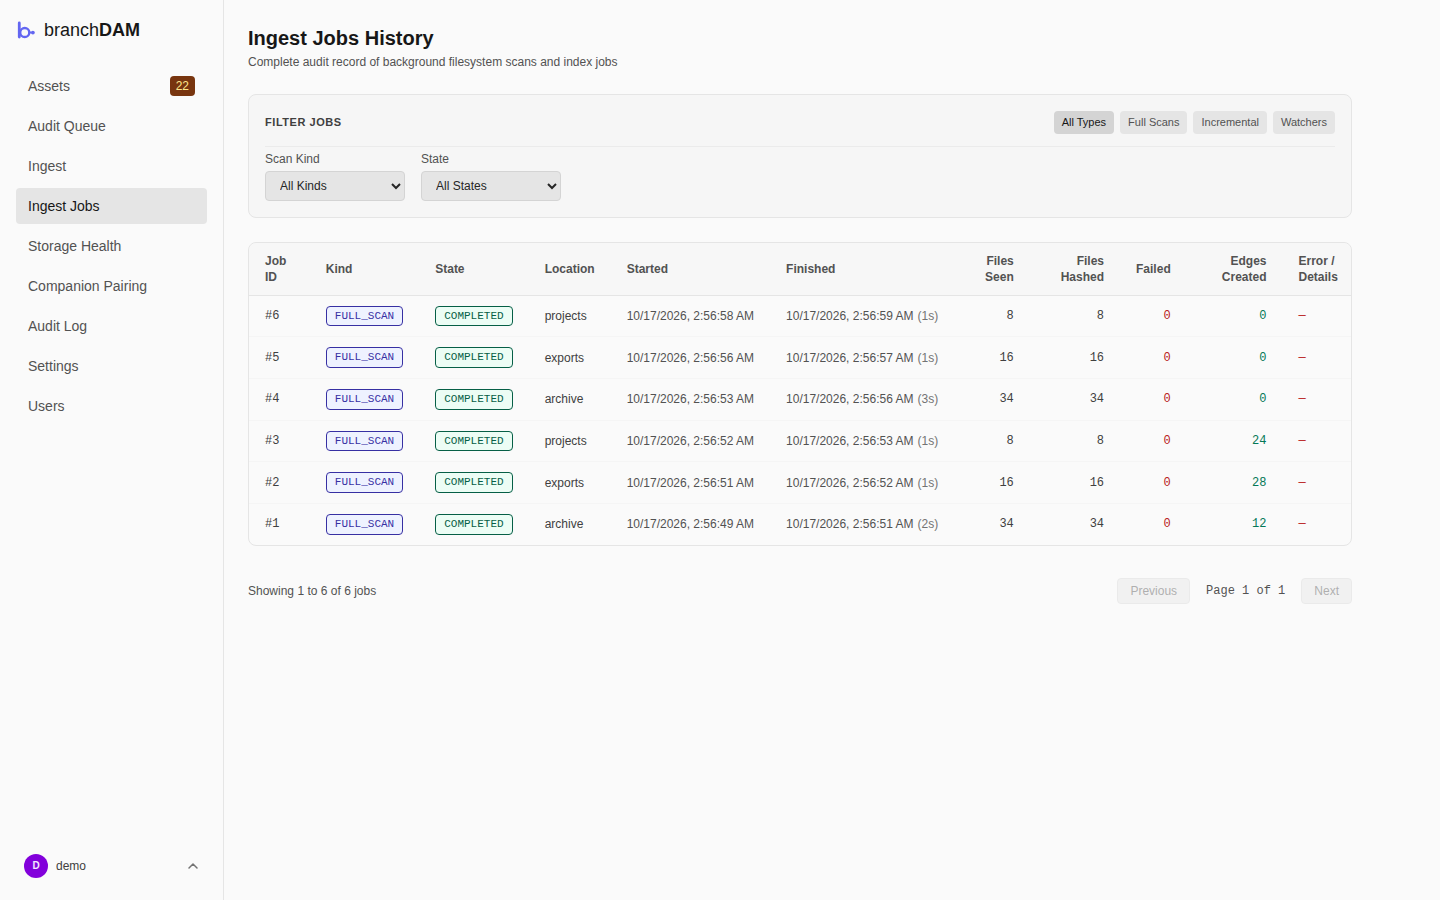
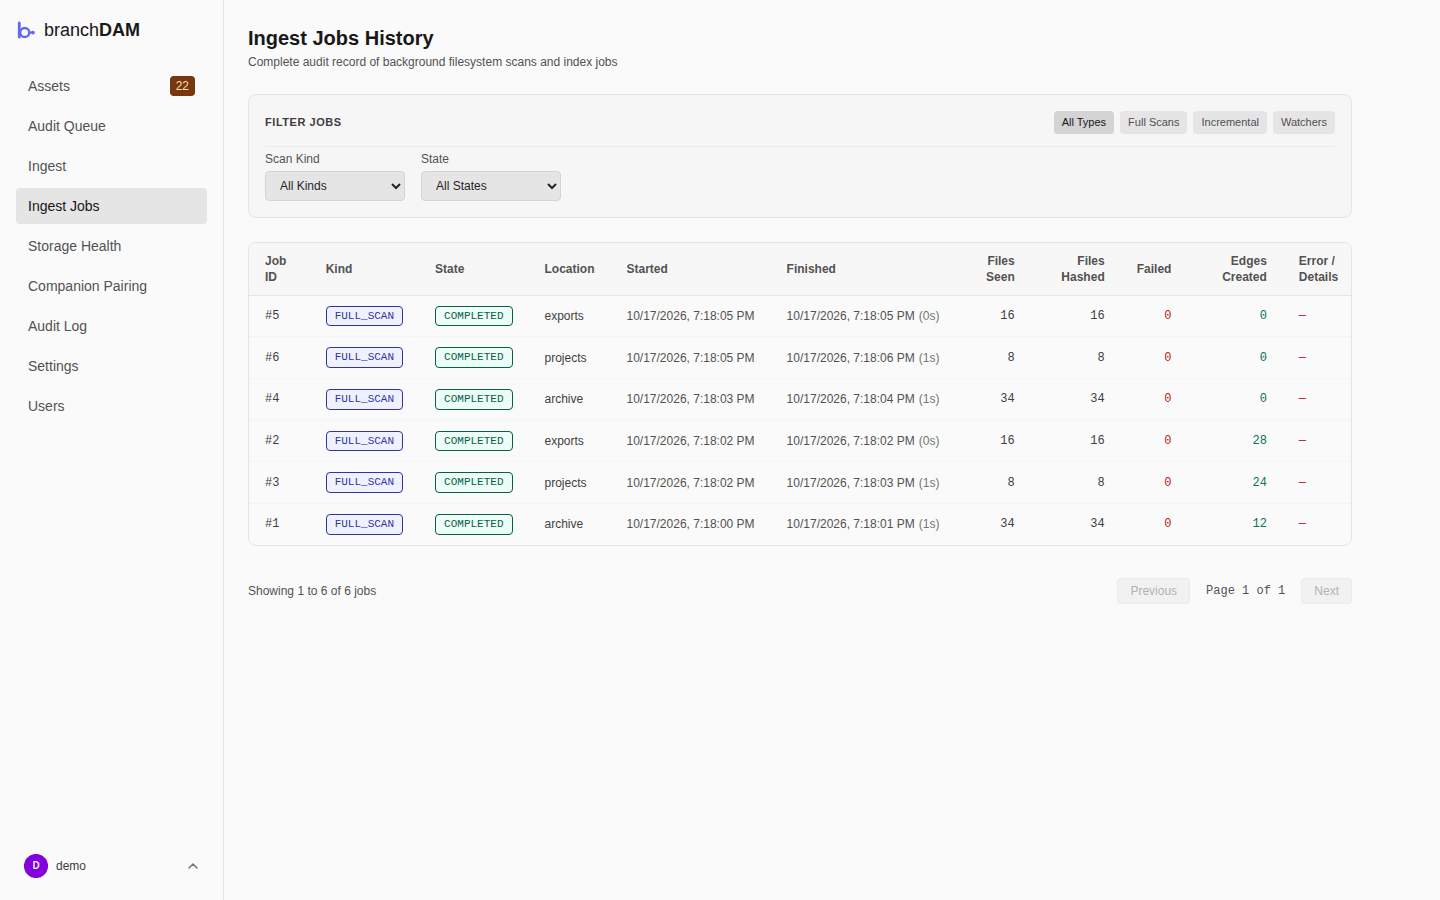
docs(screenshots): show asset detail and jobs, compress captures losslessly
- README gallery gets an Asset detail / Jobs row (with light links), so the
  four PNGs the readme profile already captured are no longer orphaned.
- capture.mjs re-encodes every PNG with sharp (already a web devDependency)
  at max zlib level with adaptive filtering before writing it. Pixels are
  identical; docs/screenshots shrinks from 1,527,946 to 704,200 bytes.
- Regenerated the set against current main, which includes the lineage
  graph label spreading (#594).

Closes #582

Claude-Session: https://claude.ai/code/session_01YT45bsDB4fuLrcMKgwwJBG

diff --git a/README.md b/README.md
@@ -29,6 +29,14 @@ ForwardAuth, on SQLite in WAL mode.
 <td align="center"><sub><b>Assets</b> <a href="docs/screenshots/assets-light.png">(light)</a></sub></td>
 <td align="center"><sub><b>Storage health</b> per tier <a href="docs/screenshots/storage-health-light.png">(light)</a></sub></td>
 </tr>
+<tr>
+<td width="50%"><a href="docs/screenshots/asset-detail.png"><img src="docs/screenshots/asset-detail.png" alt="Asset detail with media preview, indexing status and hashes" /></a></td>
+<td width="50%"><a href="docs/screenshots/jobs.png"><img src="docs/screenshots/jobs.png" alt="Ingest jobs history with scan state and counts" /></a></td>
+</tr>
+<tr>
+<td align="center"><sub><b>Asset detail</b>: preview, metadata and hashes for one version <a href="docs/screenshots/asset-detail-light.png">(light)</a></sub></td>
+<td align="center"><sub><b>Ingest jobs</b>: every scan with its state and counts <a href="docs/screenshots/jobs-light.png">(light)</a></sub></td>
+</tr>
 </table>
 
 All media in these captures is synthetic: `make screenshots` renders it with
